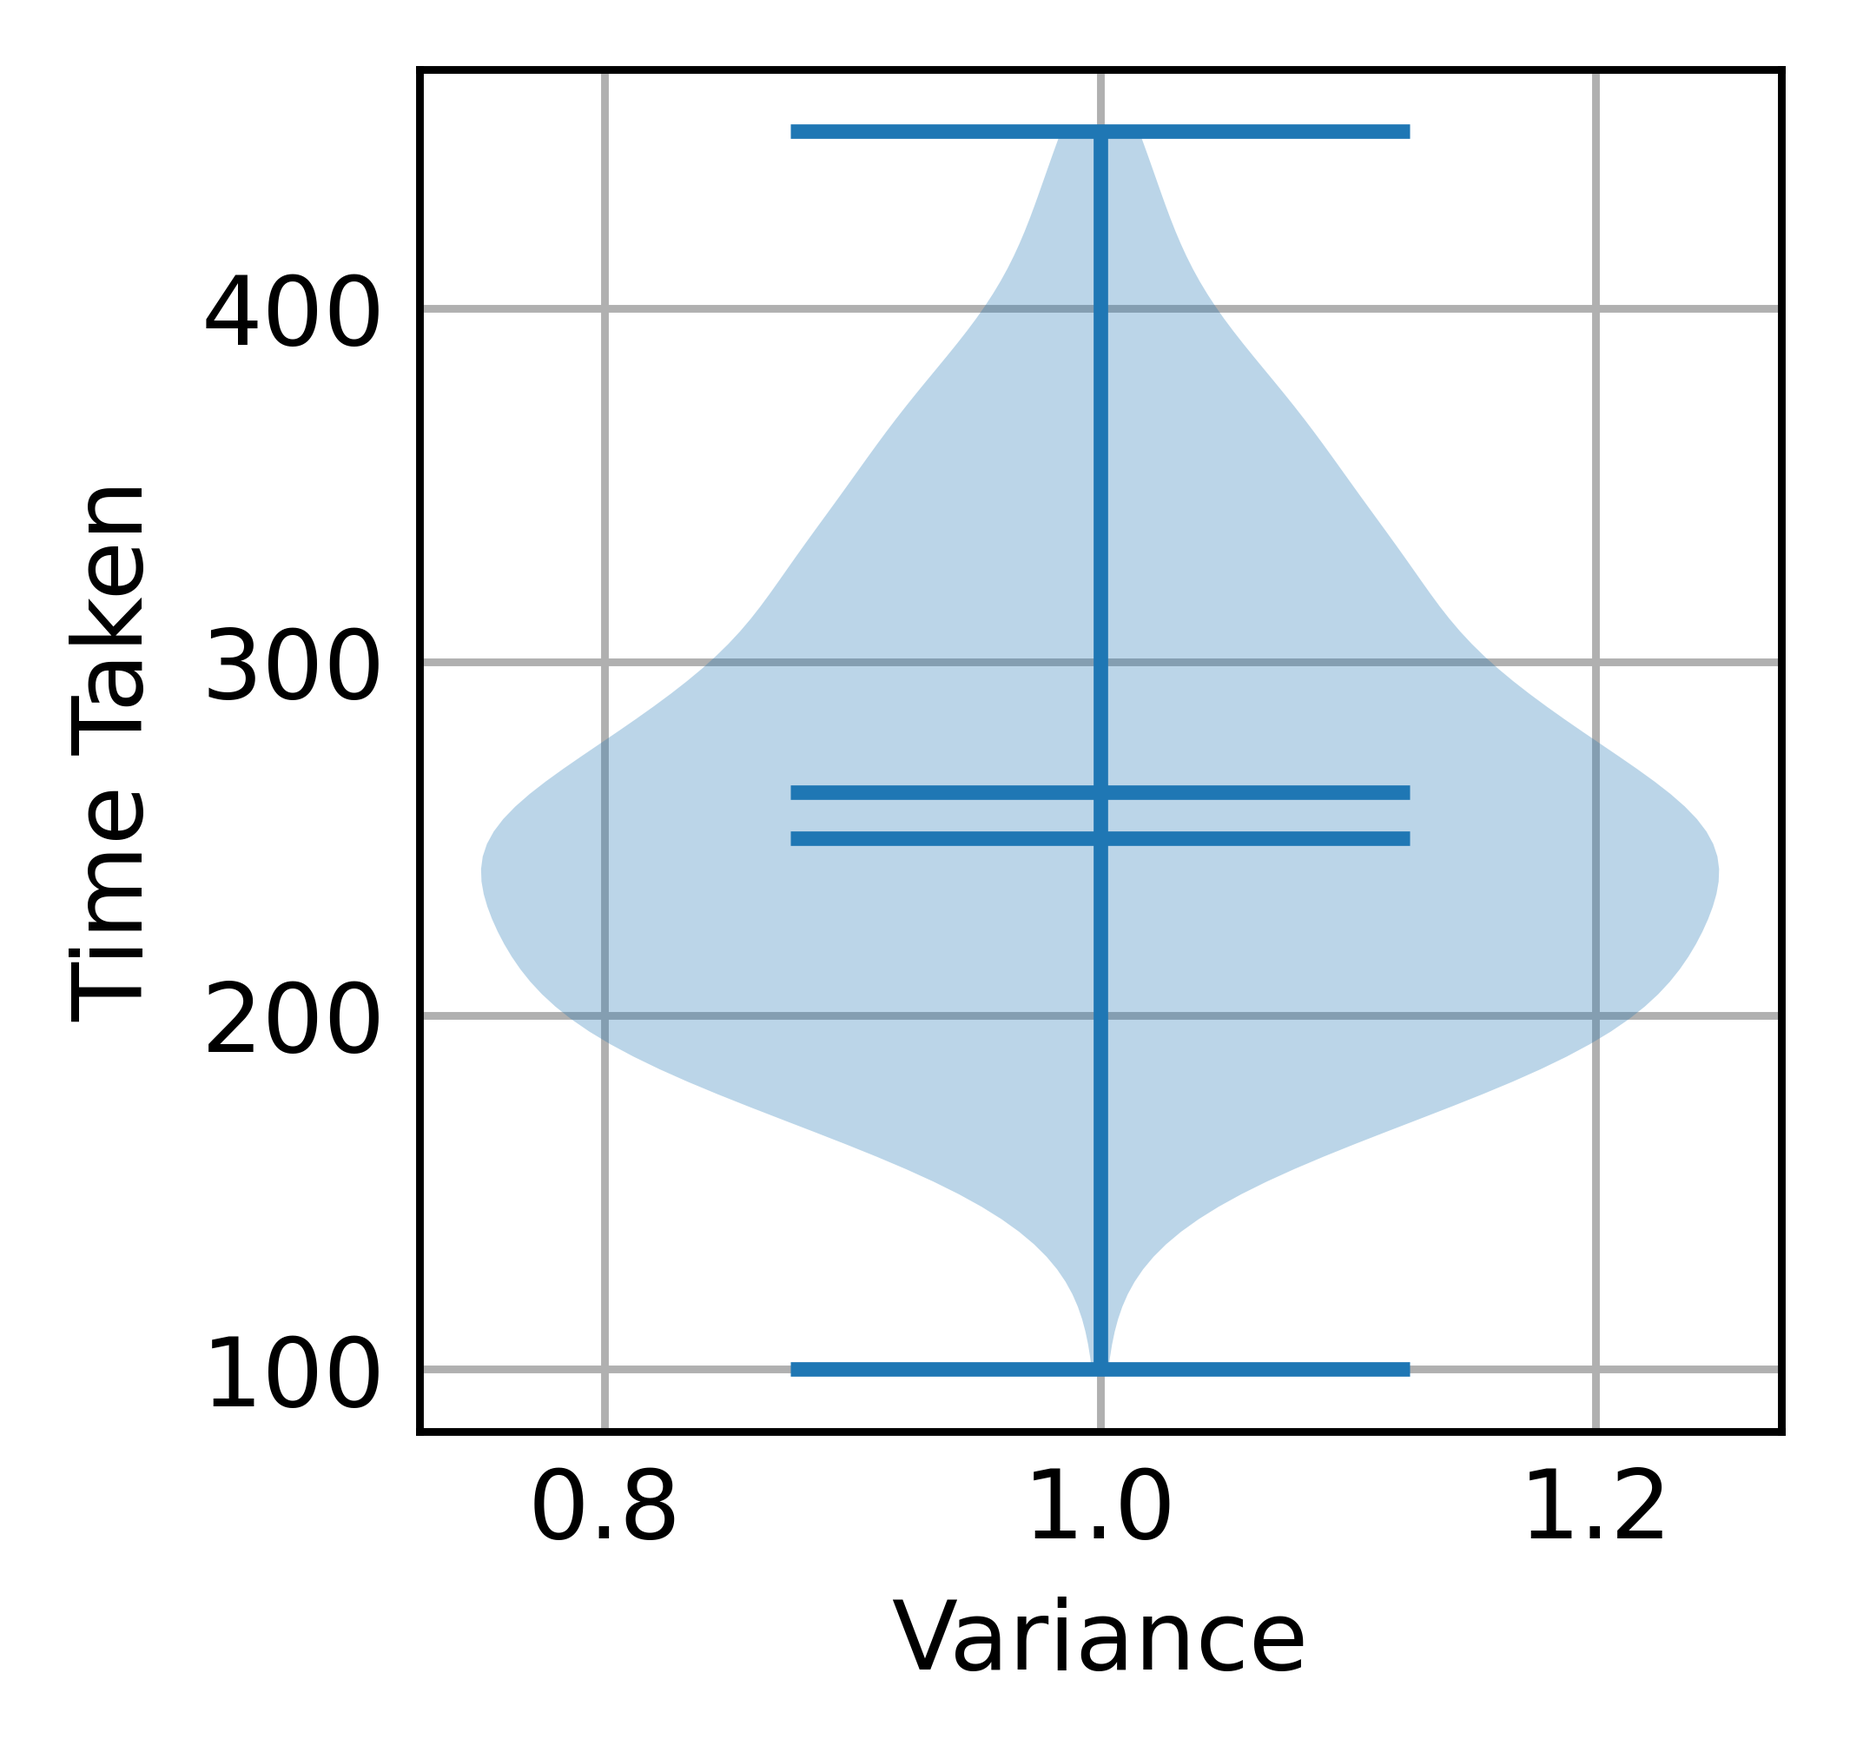
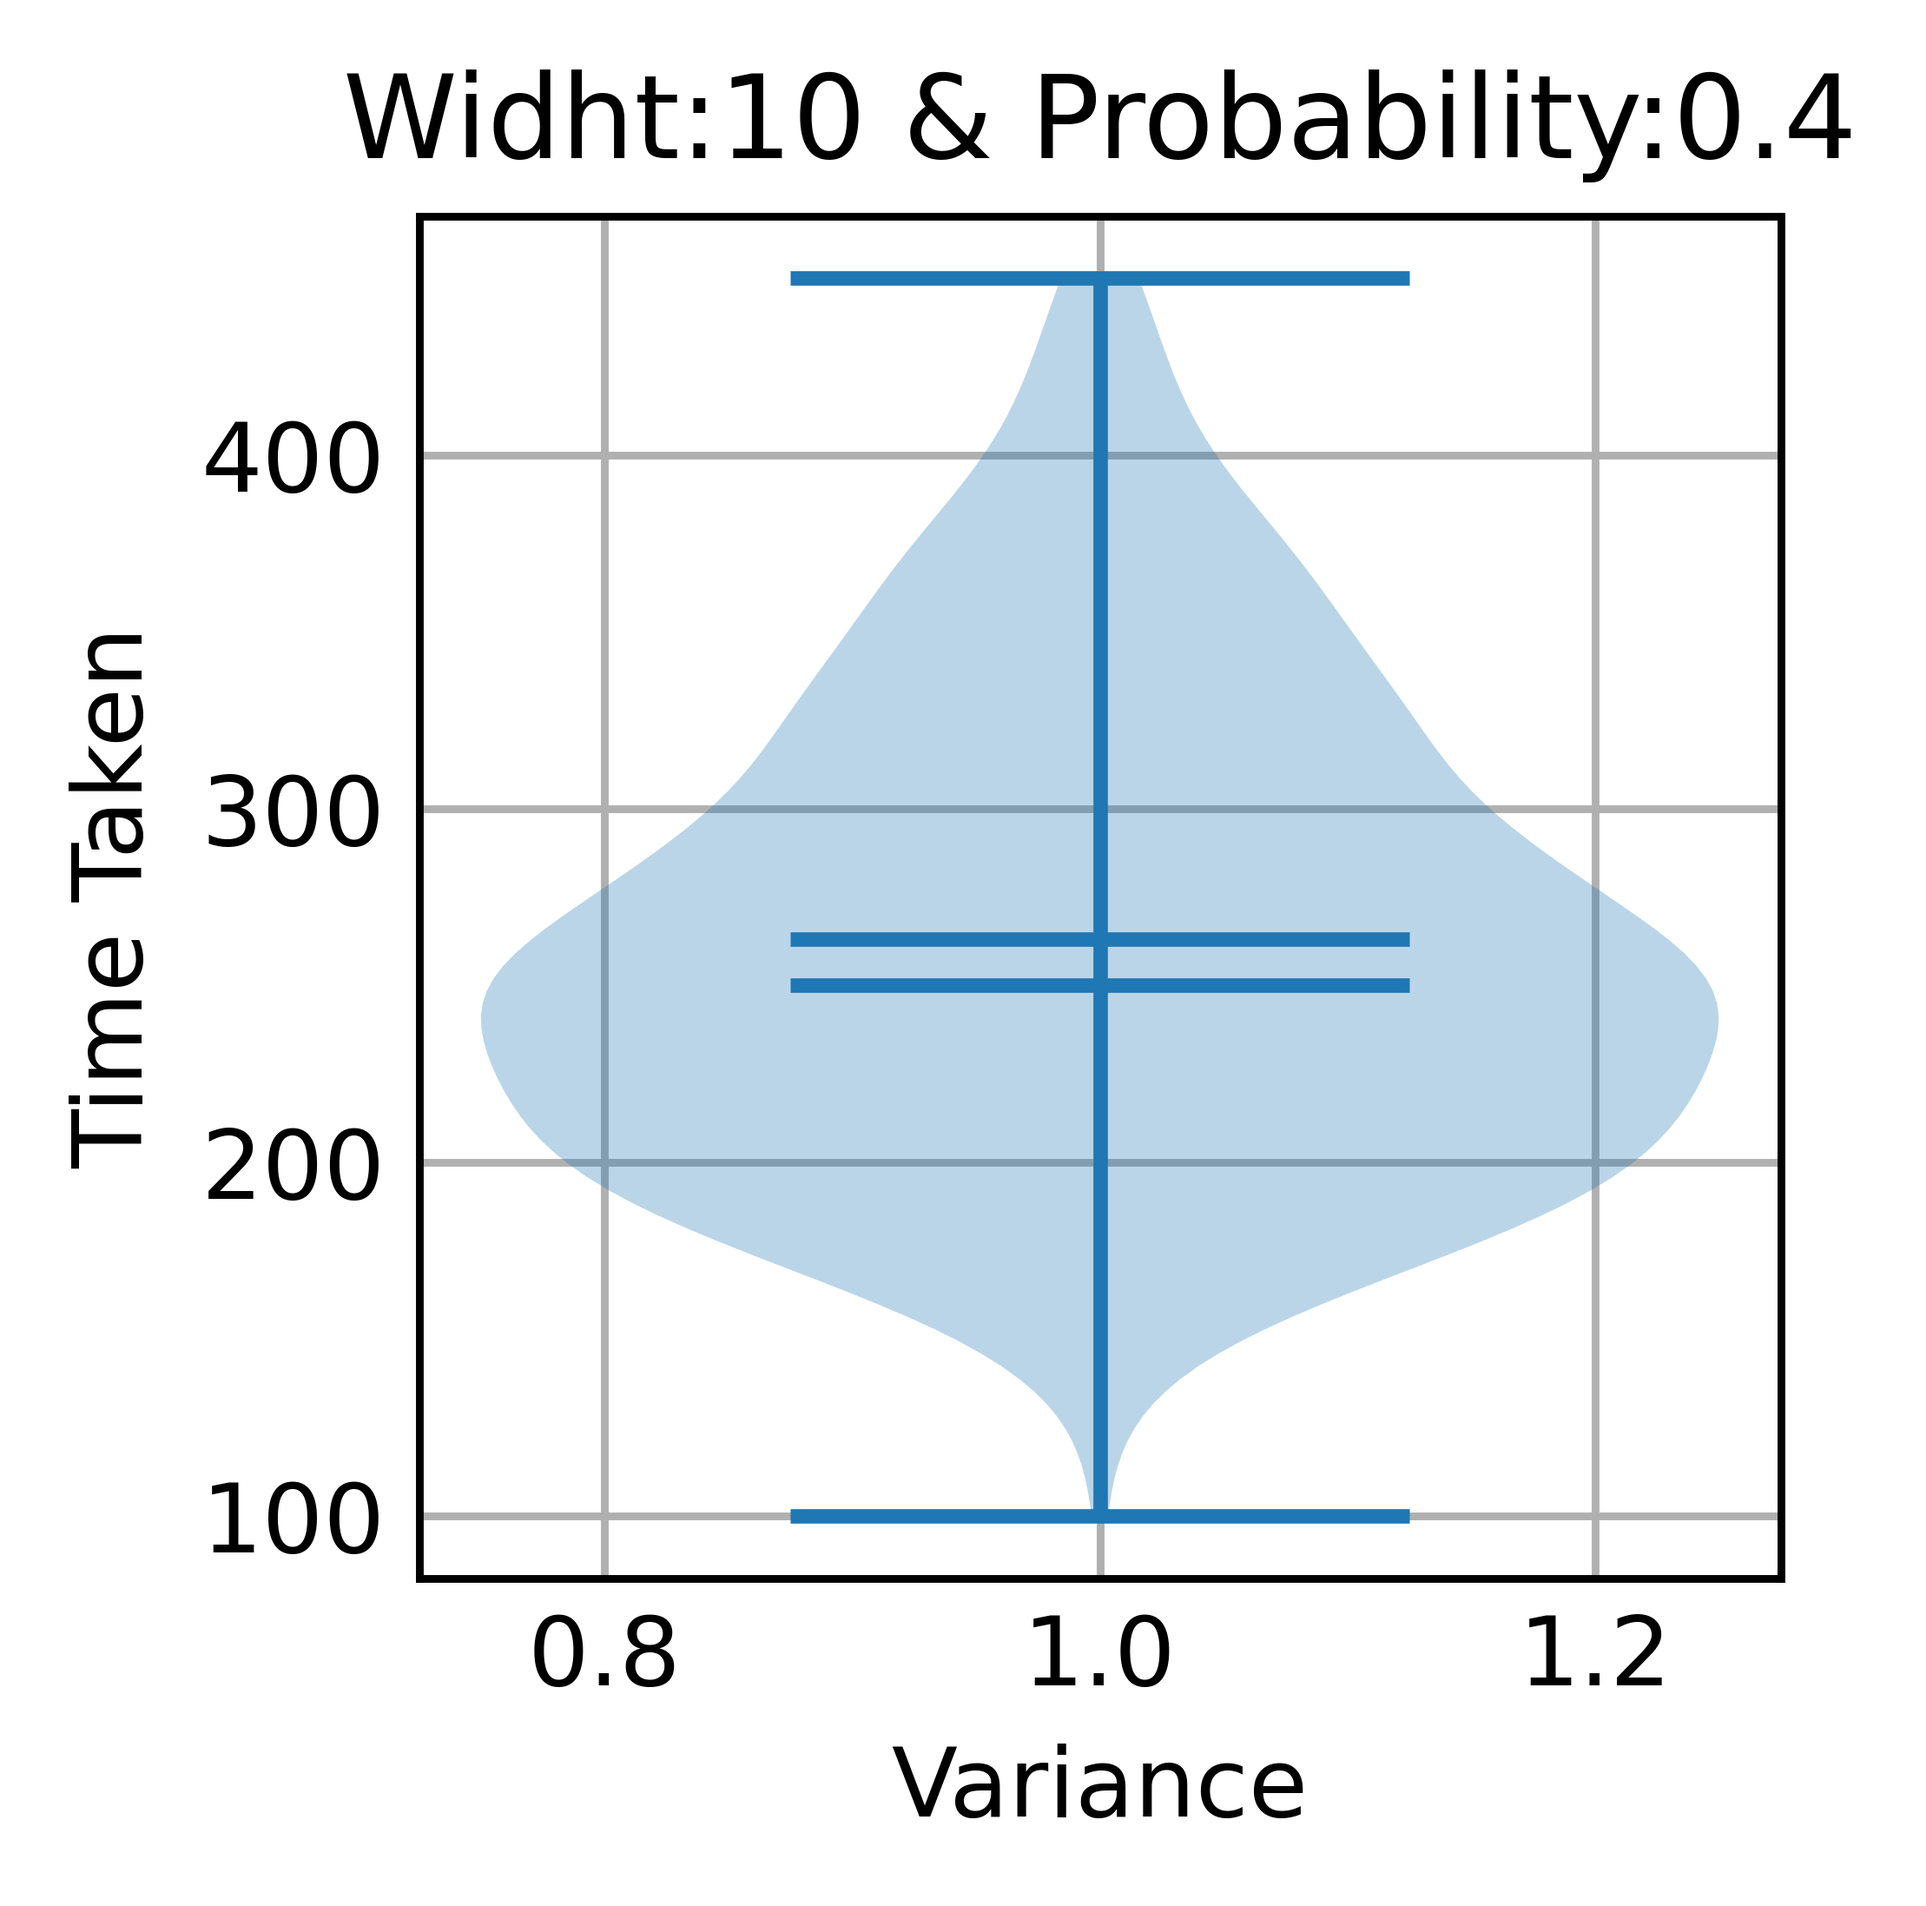
Images Quality Increased

Changed region(s): [[0.031, 0.0311, 0.9915, 0.9644]]

diff --git a/Assignment_0/plotter.py b/Assignment_0/plotter.py
@@ -31,7 +31,7 @@ def plotViolin(path):
 
     plt.xlabel("Variance")
     plt.ylabel("Time Taken")
-
+    plt.title("Widht:"+str(width)+" & Probability:"+str(prob))
     plt.violinplot(timeArr, showmeans=True, showmedians=True)
     plt.savefig("images/"+path+"Violin.png", bbox_inches="tight",dpi=800)
     plt.clf()
@@ -115,4 +115,4 @@ arrPath3 = [
 # plotBar(arrPath2)
 
 
-plotBar(arrPath3)
+# plotBar(arrPath3)
